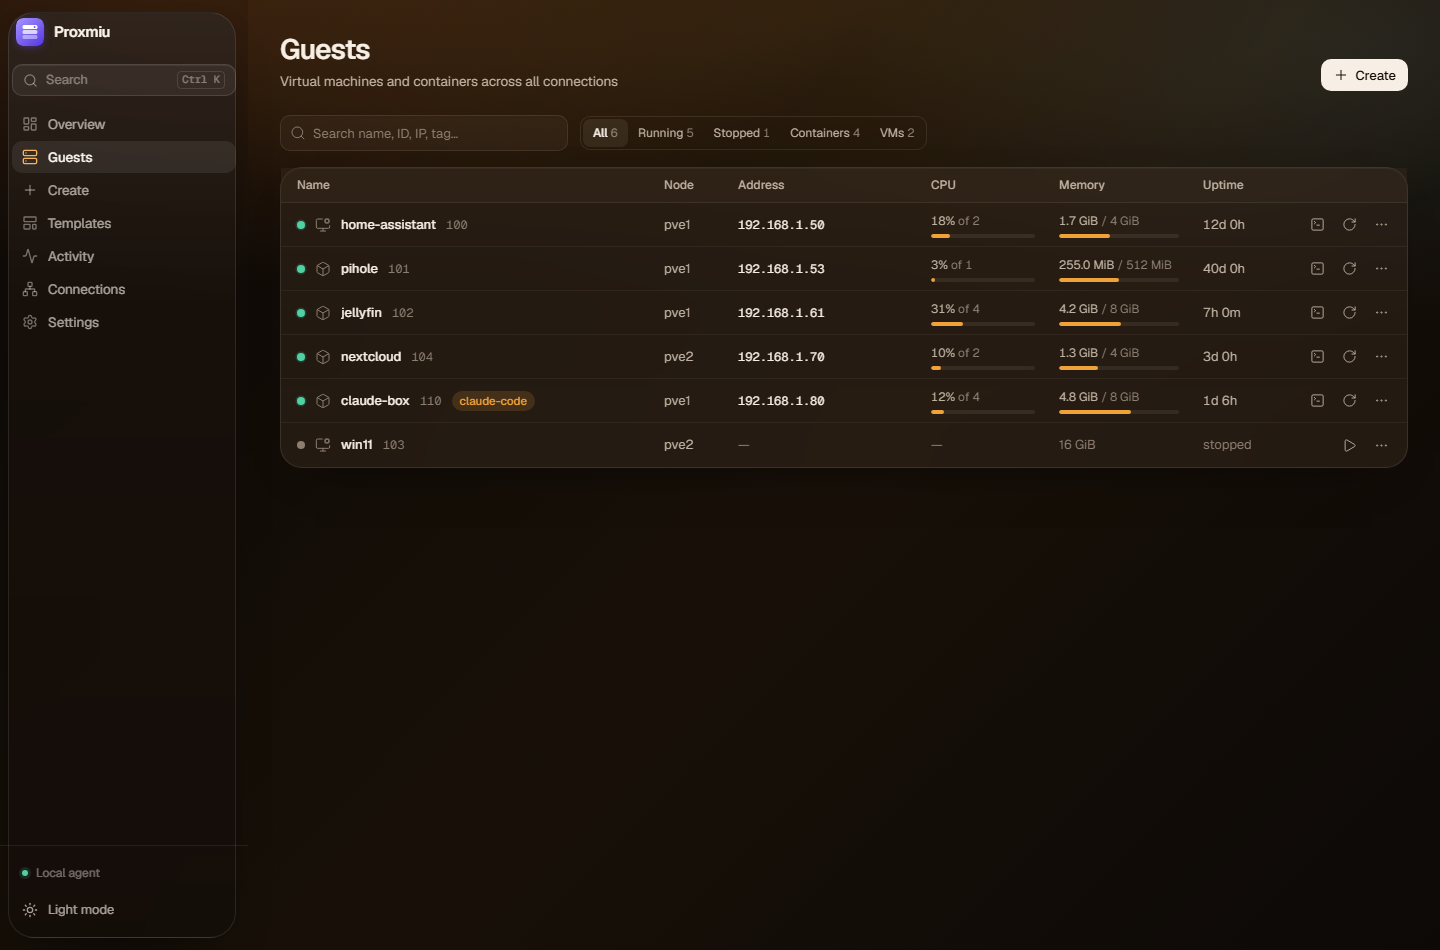
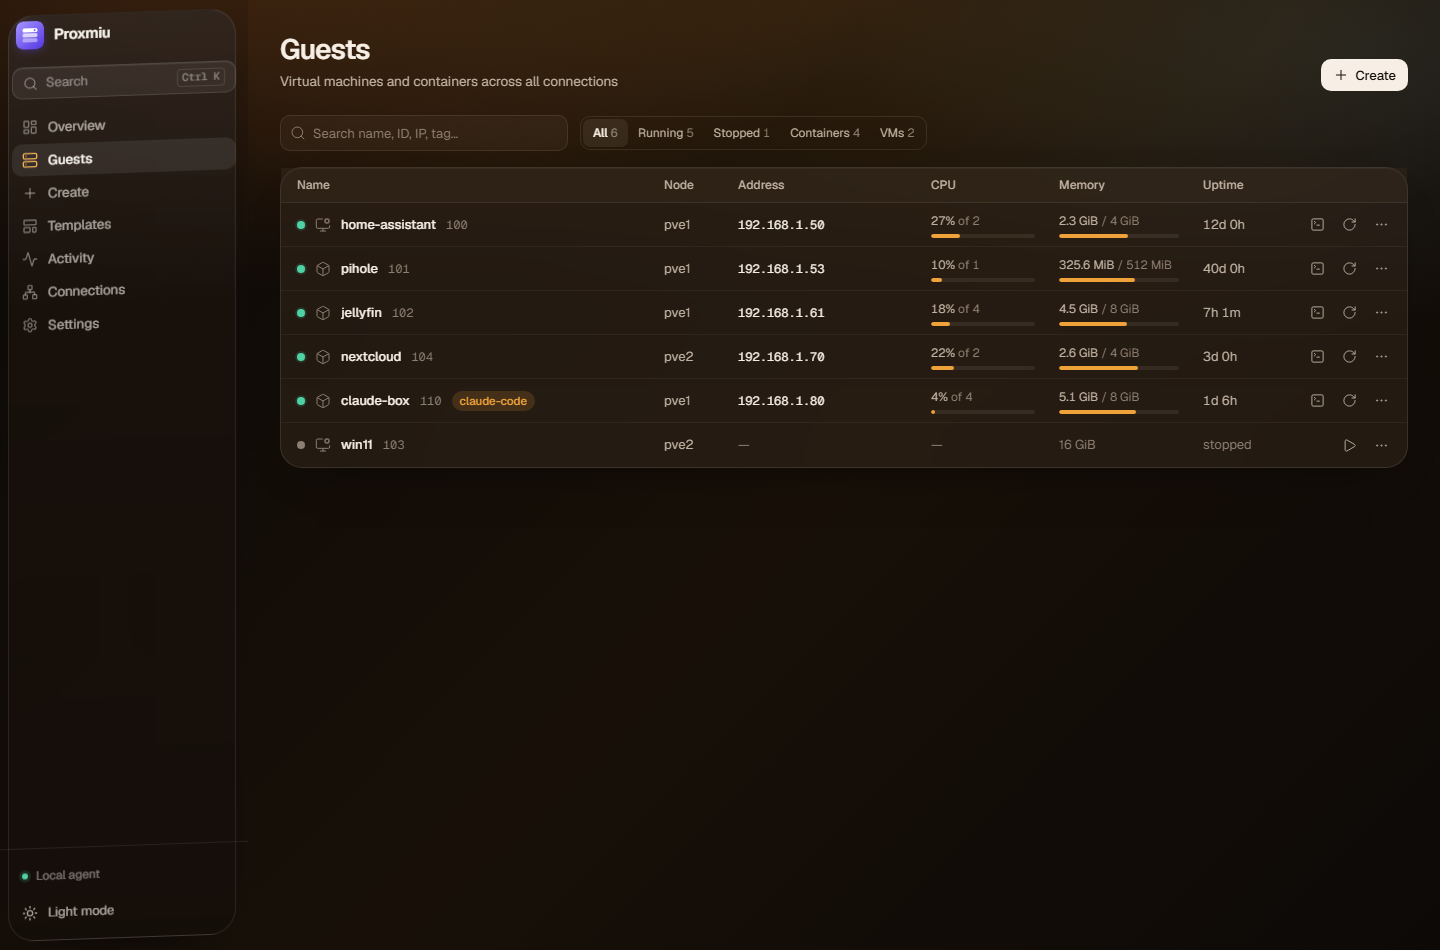
Skew the sidebar content with the rail

diff --git a/web/src/components/Layout.tsx b/web/src/components/Layout.tsx
@@ -42,8 +42,8 @@ export function Layout({ authRequired, onLogout, onDisconnect }: { authRequired:
   const footerBtn = 'flex h-8 w-full items-center gap-2.5 rounded-md px-2.5 text-[13px] text-muted transition-colors hover:bg-hover hover:text-foreground'
 
   return (
-    <div className="flex h-full">
-      <aside className="nav-glass relative w-[248px] shrink-0 max-lg:w-[72px] max-sm:hidden">
+    <div className="flex h-full overflow-hidden">
+      <aside className="nav-glass sidebar-skew relative w-[248px] shrink-0 max-lg:w-[72px] max-sm:hidden">
         <div
           aria-hidden
           className="nav-sheen pointer-events-none absolute inset-y-3 left-2 right-3 rounded-[26px] border border-white/10 bg-sidebar/90 shadow-[0_24px_60px_-35px_rgba(0,0,0,0.9)] backdrop-blur-2xl max-lg:left-1 max-lg:right-2"

diff --git a/web/src/index.css b/web/src/index.css
@@ -203,6 +203,16 @@
   background-image: linear-gradient(180deg, rgba(255, 255, 255, 0.07), transparent 32%, rgba(0, 0, 0, 0.2));
 }
 
+.sidebar-skew {
+  transform: skewY(-2deg);
+}
+
+@media (max-width: 1023px) {
+  .sidebar-skew {
+    transform: skewY(-1.2deg);
+  }
+}
+
 .tint-warm {
   background-image: linear-gradient(135deg, rgba(255, 222, 190, 0.72), rgba(255, 255, 255, 0.42));
 }

diff --git a/design.md b/design.md
@@ -1,10 +1,10 @@
 # Design
 
-Proxmiu should feel like a calm, warm glass dashboard seen through dark glass: a floating dark-frosted sidebar, deep amber and teal ambient glows, translucent smoky cards, and a small set of confident accents. Dark is the primary experience; light mode keeps the same glass language in cream tones. The marketing hero adds the 3D perspective tilt from the reference video.
+Proxmiu should feel like a calm, warm glass dashboard seen through dark glass: a floating, skewed dark-frosted sidebar, deep amber and teal ambient glows, translucent smoky cards, and a small set of confident accents. Dark is the primary experience; light mode keeps the same glass language in cream tones. The marketing hero adds a deeper 3D perspective tilt from the reference video.
 
 ## Principles
 
-1. **Warm glass by default.** Surfaces are translucent over a deep warm gradient, with a floating dark sidebar and layered smoky cards. Depth comes from blur, layered light and a hairline highlight, not heavy borders.
+1. **Warm glass by default.** Surfaces are translucent over a deep warm gradient, with a floating, skewed dark sidebar and layered smoky cards. Depth comes from blur, the leaned rail, layered light and a hairline highlight, not heavy borders.
 2. **Information first.** Numbers use tabular figures; IDs and IPs use the mono font; secondary info is muted, not hidden. Glass must never get in the way of density.
 3. **Colour as atmosphere.** Amber is the brand accent. Stat cards use soft warm, cool, blue and lilac tints. Status colours stay semantic: green, amber, red, teal.
 4. **Fast paths.** The most common action on a row is a visible icon button; the rest live in a menu. Everything is reachable from ⌘K.
@@ -58,7 +58,7 @@ Shadows: `--shadow-card` is a soft ambient shadow plus a 1px white inner highlig
   - `destructive`: soft red that turns solid on hover
 
   Buttons scale to 0.98 on press, and icons are 16px.
-- **Sidebar**. A floating dark glass rail inset from the top, bottom and left, with 26px corners and a soft float. It uses `.nav-glass` for light text and an amber active icon, with a subtle top sheen. The mobile tab bar reuses the glass variables and sheen as a horizontal dock. The 3D perspective skew belongs to the marketing hero, not the interactive rail.
+- **Sidebar**. A floating dark glass rail inset from the top, bottom and left, with 26px corners, a soft float and `skewY(-2deg)` applied to the panel **and its content** (`.sidebar-skew`) so the whole rail leans like the reference. It uses `.nav-glass` for light text and an amber active icon, with a subtle top sheen. The mobile tab bar reuses the glass variables and sheen as a horizontal dock; the marketing hero adds a deeper 3D tilt.
 - **Inputs/Select/Textarea**. Translucent glass with a brand focus border and a 3px `brand-soft` ring. Wrap every field in `Field` (label + help).
 - **Badge**. 20px pill. `neutral` for tags, `brand` for Proxmiu-created guests, semantic tones for status.
 - **StatusDot**. 8px dot; running/online pulses softly in green.
@@ -70,8 +70,8 @@ Shadows: `--shadow-card` is a soft ambient shadow plus a 1px white inner highlig
 
 ## Layout
 
-- **Desktop (≥1024px):** 248px floating dark glass sidebar, logo, search button (⌘K), nav (active item gets a translucent light panel, amber icon) and a footer with agent status, theme and logout.
-- **Tablet (640–1023px):** the sidebar collapses to a 72px dark icon rail.
+- **Desktop (≥1024px):** 248px floating, skewed dark glass sidebar, logo, search button (⌘K), nav (active item gets a translucent light panel, amber icon) and a footer with agent status, theme and logout.
+- **Tablet (640–1023px):** the sidebar collapses to a 72px skewed dark icon rail.
 - **Phone (<640px):** no sidebar.
   - A sticky blurred warm top bar holds the logo and search.
   - A floating dark glass dock holds Overview, Guests, Create, Activity and More; it respects `env(safe-area-inset-*)` and sits above the content with `92px` bottom clearance.
